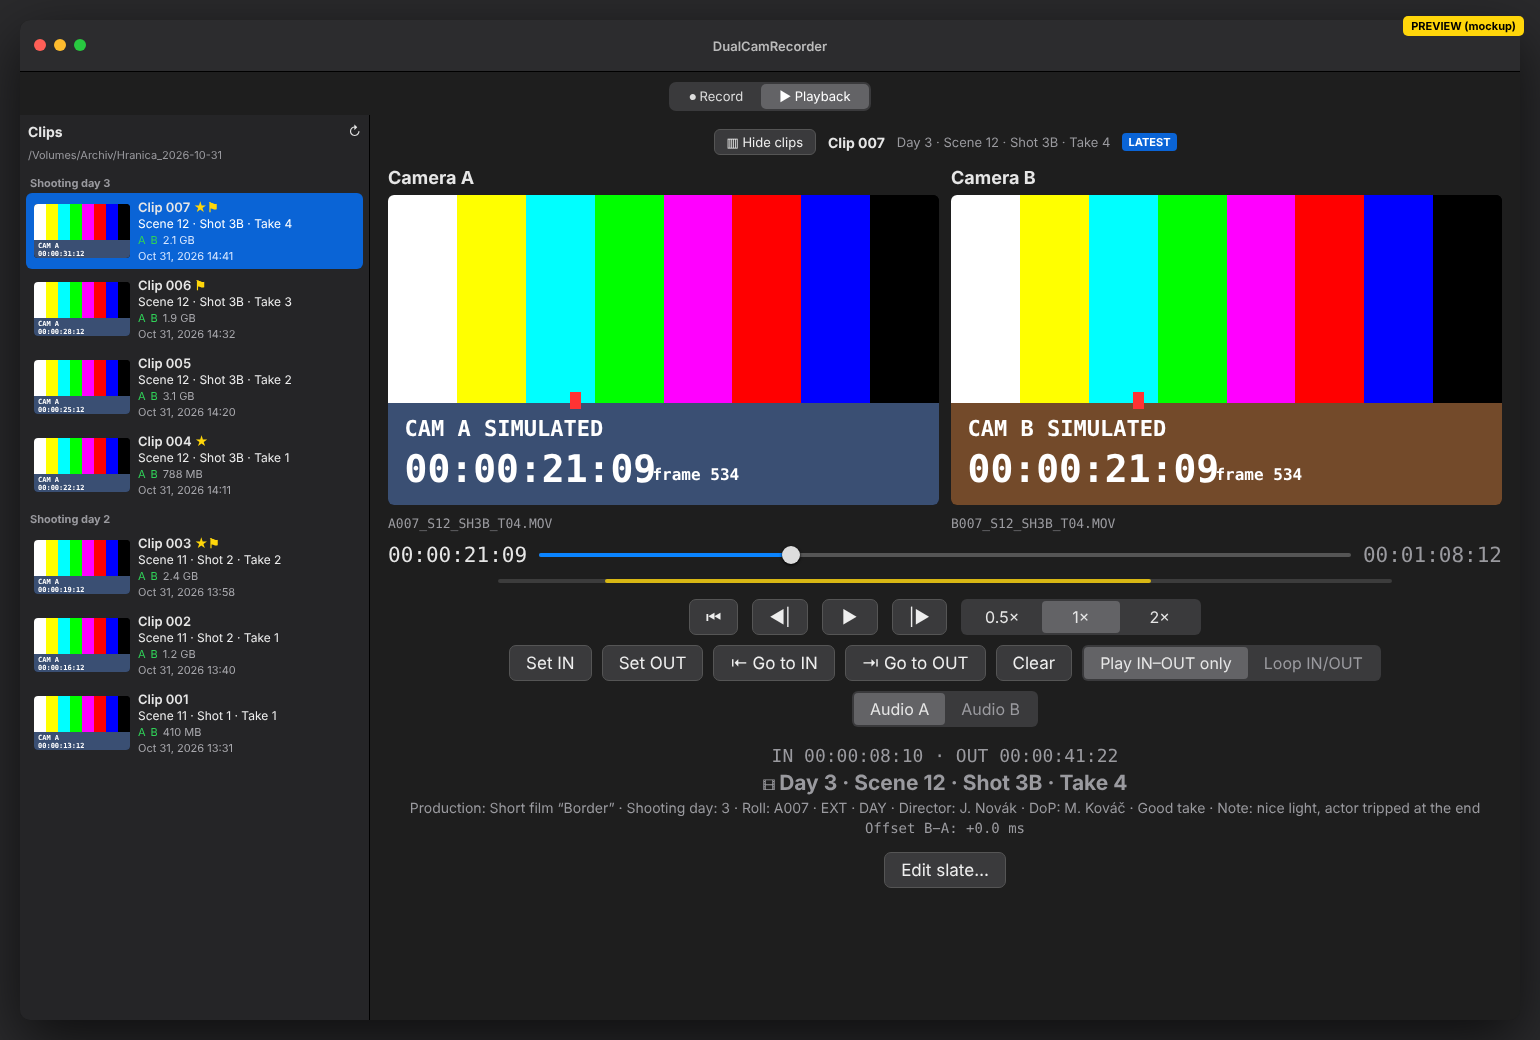
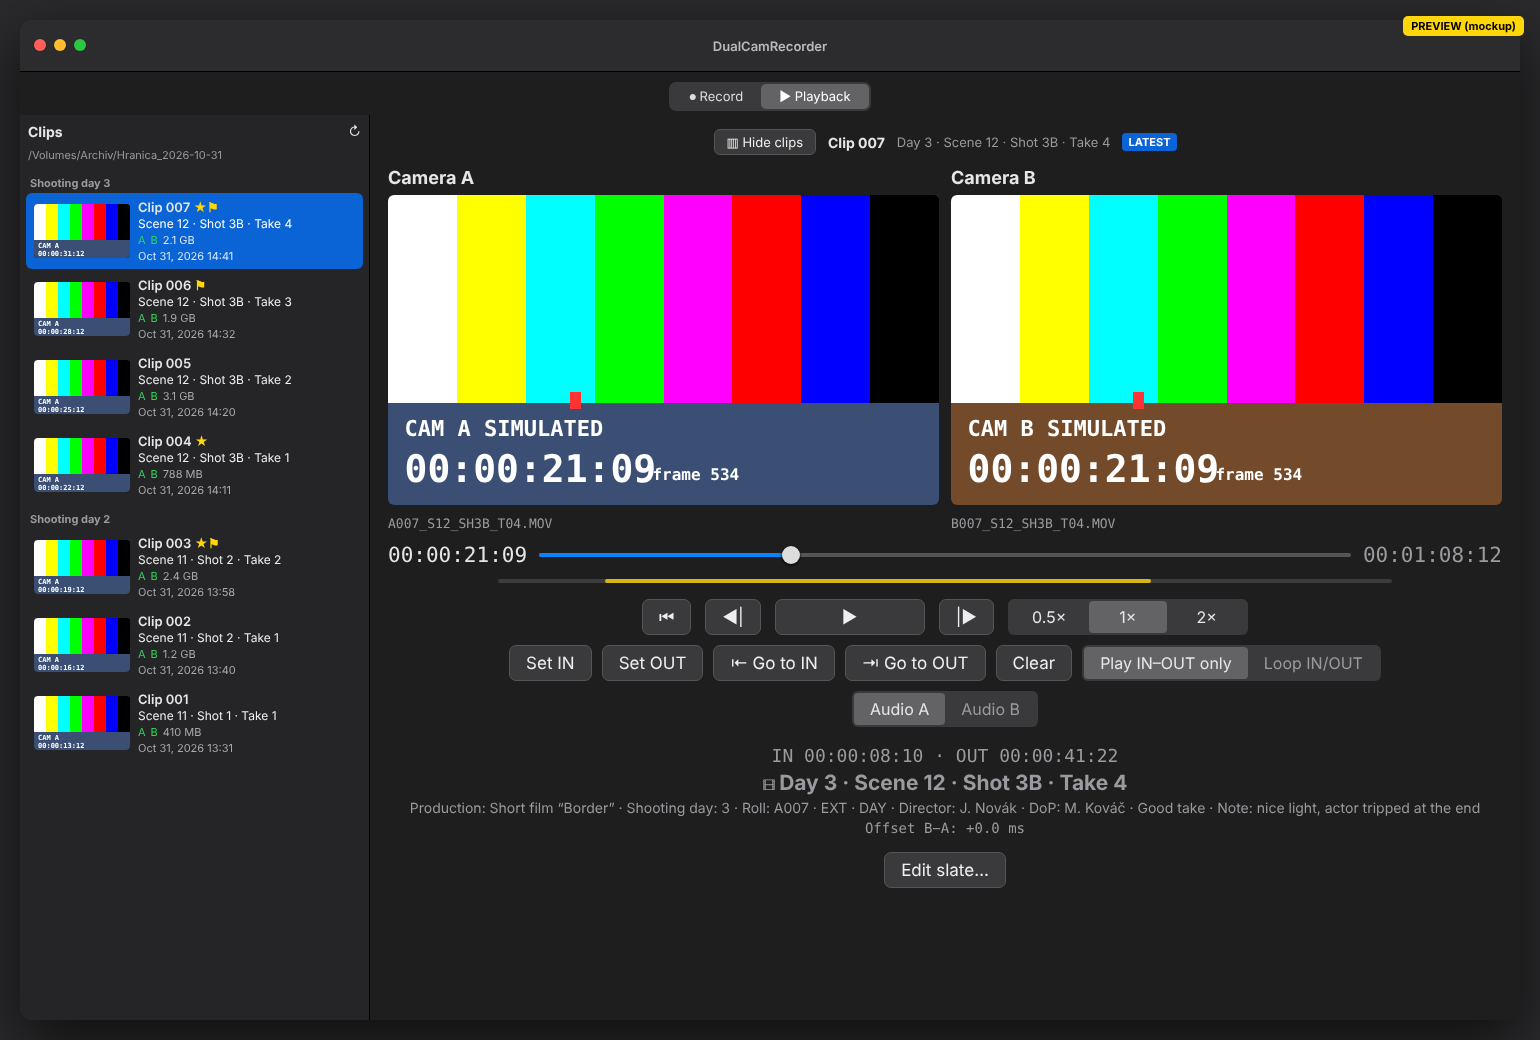
Make the Play/Pause button wider than the other transport buttons
Claude-Session: https://claude.ai/code/session_01SjxyfTkJQH7RKsrkA8EJQA

Changed region(s): [[0.4052, 0.5538, 0.8104, 0.6154]]

diff --git a/DualCamRecorder/Views/PlaybackView.swift b/DualCamRecorder/Views/PlaybackView.swift
@@ -300,7 +300,7 @@ struct PlaybackView: View {
                 .keyboardShortcut(.leftArrow, modifiers: [])
                 .help("One frame back (←)")
             Button { player.togglePlay() } label: {
-                Image(systemName: player.isPlaying ? "pause.fill" : "play.fill").frame(width: 56)
+                Image(systemName: player.isPlaying ? "pause.fill" : "play.fill").frame(width: 120)
             }
             .keyboardShortcut(.space, modifiers: [])
             .help("Play / pause (space)")
